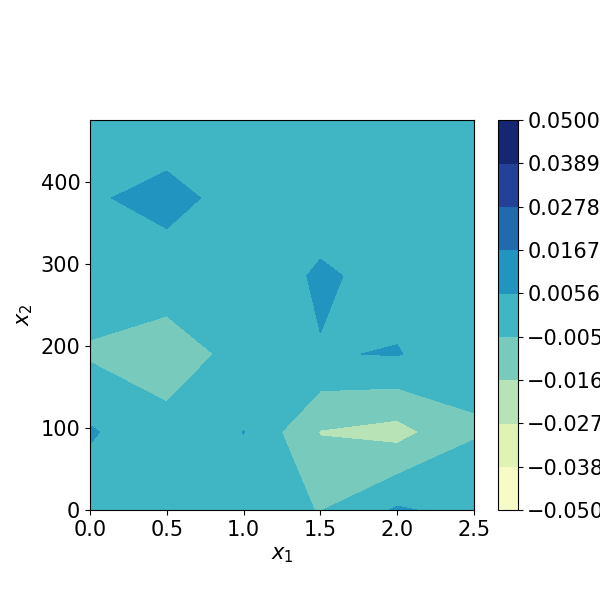
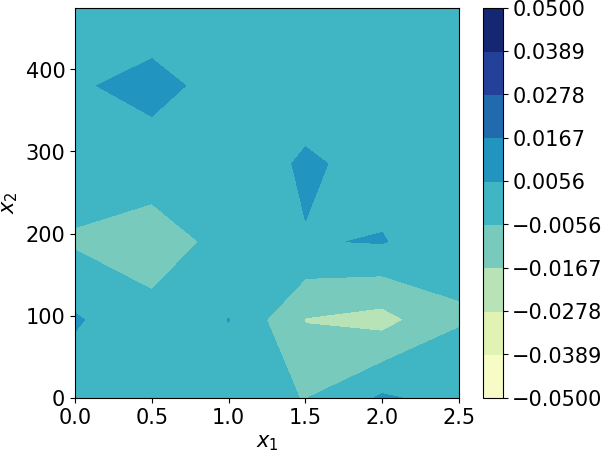
add comments

diff --git a/HandGP/main_greco.py b/HandGP/main_greco.py
@@ -88,12 +88,6 @@ Dose_B_mono = np.concatenate((zeros_B.reshape(-1,1), Dose_B.reshape(-1,1)),  axi
 
 Dose_AB_mono = np.concatenate((Dose_A_mono.reshape(-1,1), Dose_B_mono.reshape(-1,1)),  axis=1)
 Effect_mono = np.concatenate((Effect_A.reshape(-1,1), Effect_B.reshape(-1,1)),  axis=0)
-#
-# Dose_AB = np.concatenate((Dose_AB, Dose_AB_mono, Dose_AB_mono, Dose_AB_mono, Dose_AB_mono),  axis=0)
-# Effect = np.concatenate((Effect.reshape(-1,1), Effect_mono.reshape(-1,1), Effect_mono.reshape(-1,1), Effect_mono.reshape(-1,1), Effect_mono.reshape(-1,1)),  axis=0)
-
-#Dose_AB = np.concatenate(( Dose_AB_mono, Dose_AB_mono, Dose_AB_mono, Dose_AB_mono),  axis=0)
-#Effect = np.concatenate(( Effect_mono.reshape(-1,1), Effect_mono.reshape(-1,1), Effect_mono.reshape(-1,1), Effect_mono.reshape(-1,1)),  axis=0)
 
 Dose_AB = np.concatenate((Dose_AB, Dose_AB_mono, Dose_AB_mono, Dose_AB_mono, Dose_AB_mono),  axis=0)
 Effect = np.concatenate((Effect.reshape(-1,1), Effect_mono.reshape(-1,1), Effect_mono.reshape(-1,1), Effect_mono.reshape(-1,1), Effect_mono.reshape(-1,1)),  axis=0)
@@ -108,10 +102,6 @@ Lik_full = np.zeros((100,1))
 prior_lengthscale_da = tfp.distributions.Gamma(np.float64(alphaA), np.float64(betaA))
 prior_lengthscale_db = tfp.distributions.Gamma(np.float64(alphaB), np.float64(betaB))
 prior_variance_da = tfp.distributions.Gamma(np.float64(alpha_var), np.float64(beta_var))
-
-#prior_lengthscale_da = tfp.distributions.Gamma(np.float64(alphaA), np.float64(betaA))
-#prior_lengthscale_db = tfp.distributions.Gamma(np.float64(alphaB), np.float64(betaB))
-#prior_variance_da = tfp.distributions.InverseGamma(np.float64(alpha_var), np.float64(beta_var))
 
 
 for i in range(1,100):
@@ -462,6 +452,11 @@ plt.savefig('figures/Greco/Greco'+'DrugB'+'.png')
 df = pd.DataFrame(result)
 #df.to_csv("results/Greco/results_Greco.csv")
 
+'''
+Run HMC.
+General strategy is to run different combinations of the step size and leap frog
+step and pick the largest step size with the highest acceptance probability.
+'''
 
 def plot_samples(step_size, num_leapfrog, samples, parameters, y_axis_label):
     # Plot samples of the pars

diff --git a/HandGP/main_LA_synergy.py b/HandGP/main_LA_synergy.py
@@ -450,6 +450,12 @@ def marginal_samples(step_size, leap_frog, samples, parameters, y_axis_label):
     df = df.round(2)
     df.to_csv('results/LA_synergy/LA_synergy_hyperparameters'+str(step_size)+str(leap_frog)+'.csv')
 
+'''
+Run HMC.
+General strategy is to run different combinations of the step size and leap frog
+step and pick the largest step size with the highest acceptance probability.
+'''
+
 #leapfrog_num_and_step_size = np.stack(np.meshgrid([20.0, 15.0, 10.0, 5.0, 1.0], [0.1, 0.5, 0.7, 0.9, 1.0, 1.5, 2.0])).T.reshape(-1, 2)
 leapfrog_num_and_step_size = np.stack(np.meshgrid([ 5.0], [ 0.1])).T.reshape(-1, 2)
 num_hmc_parameters = leapfrog_num_and_step_size.shape[0]

diff --git a/HandGP/main_ChouTalalay.py b/HandGP/main_ChouTalalay.py
@@ -459,6 +459,12 @@ def marginal_samples(step_size,leap_frog, samples, parameters, y_axis_label):
     df = df.round(2)
     df.to_csv('results/ChouTalalay/ChouTalalay_hyperparameters'+str(step_size)+str(leap_frog)+'.csv')
 
+'''
+Run HMC.
+General strategy is to run different combinations of the step size and leap frog
+step and pick the largest step size with the highest acceptance probability.
+'''
+
 leapfrog_num_and_step_size = np.stack(np.meshgrid([10.0], [0.05])).T.reshape(-1, 2)
 num_hmc_parameters = leapfrog_num_and_step_size.shape[0]
 

diff --git a/MuSyC/main_ChouTalalay_musyc.py b/MuSyC/main_ChouTalalay_musyc.py
@@ -121,7 +121,8 @@ for t in cbar.ax.get_yticklabels():
 plt.xlabel('$x_1$', fontsize=15)
 plt.ylabel('$x_2$', fontsize=15)
 #plt.title("MuSyC residuals", fontsize=20)
-plt.savefig('figures/ChouTalalay/Difference_musyc_ChouTalalay.png')
+plt.savefig('figures/ChouTalalay/Difference_musyc_ChouTalalay.png', bbox_inches = 'tight',
+    pad_inches = 0)
 
 fig, ax = plt.subplots(figsize=(6,6))
 #ax.set_aspect('equal')
